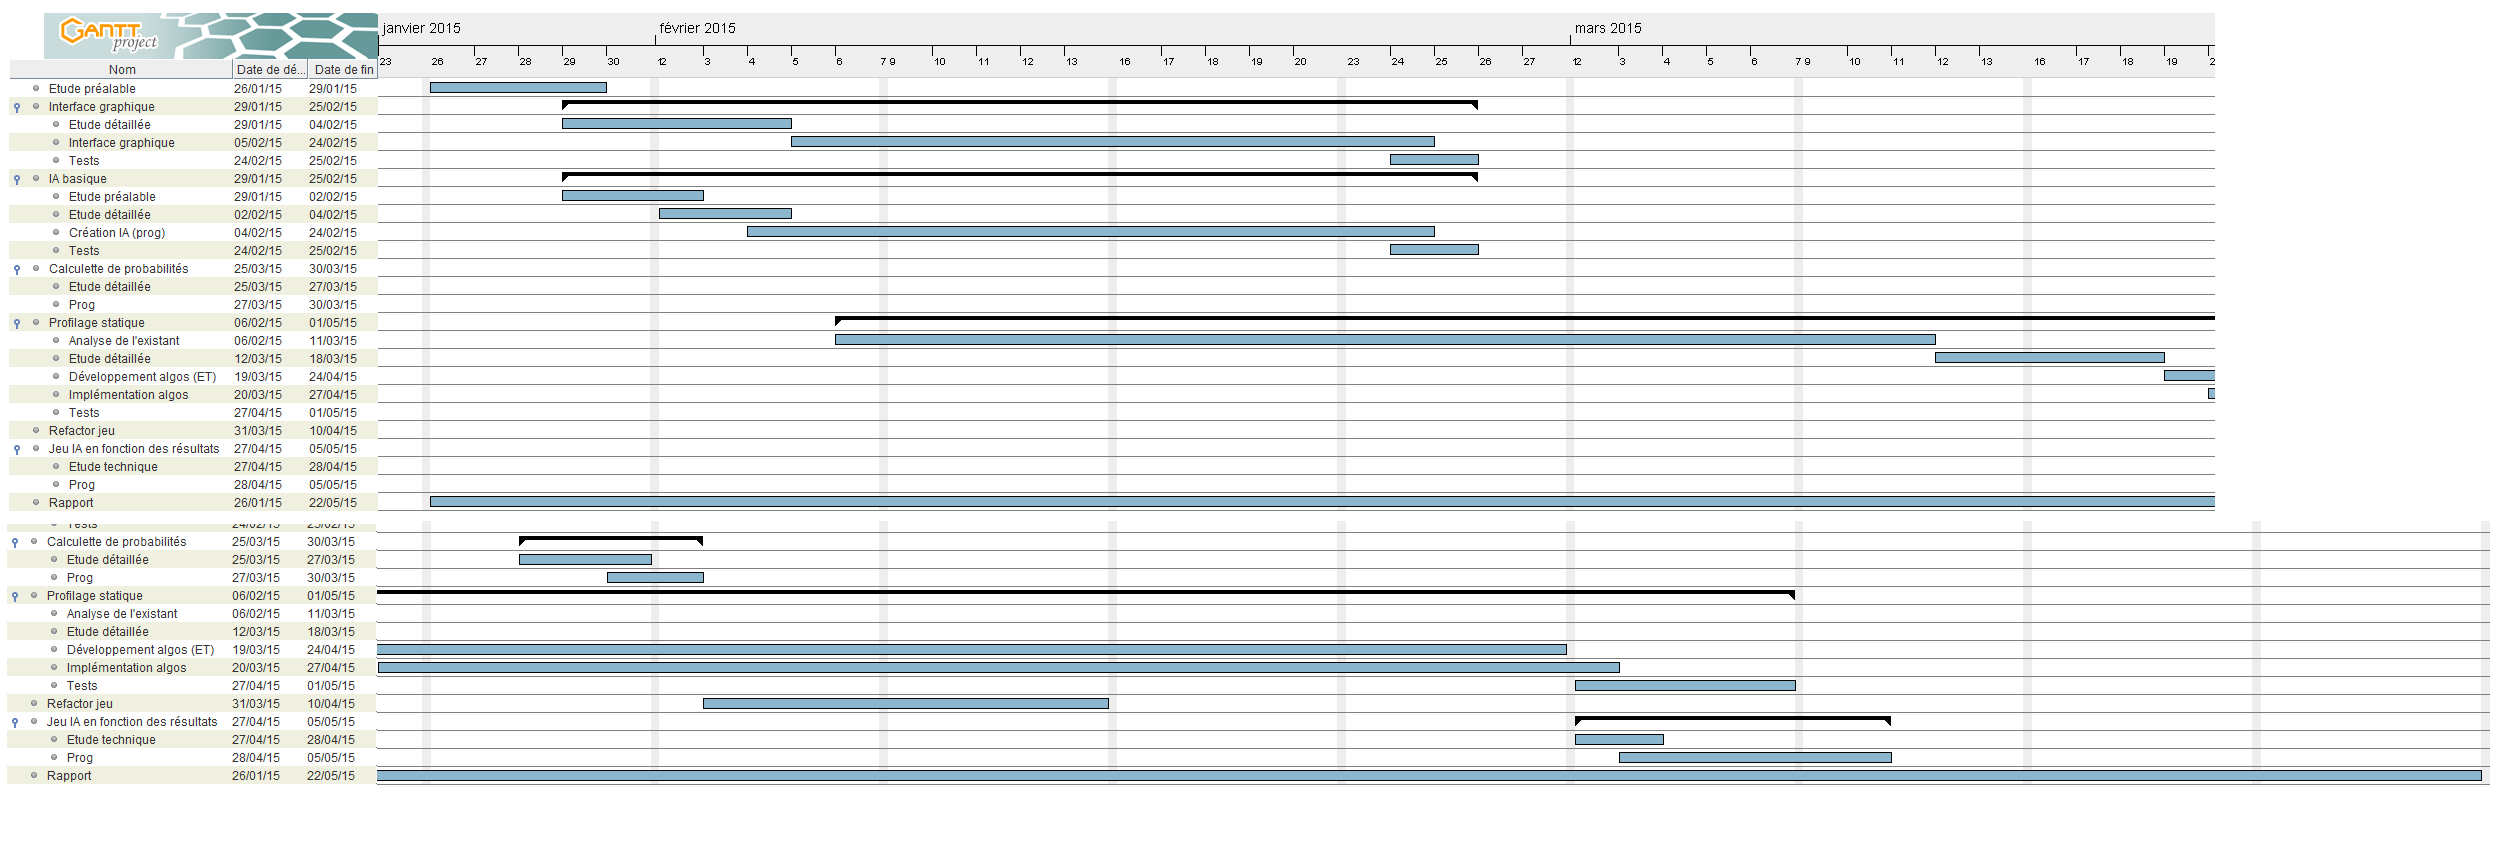
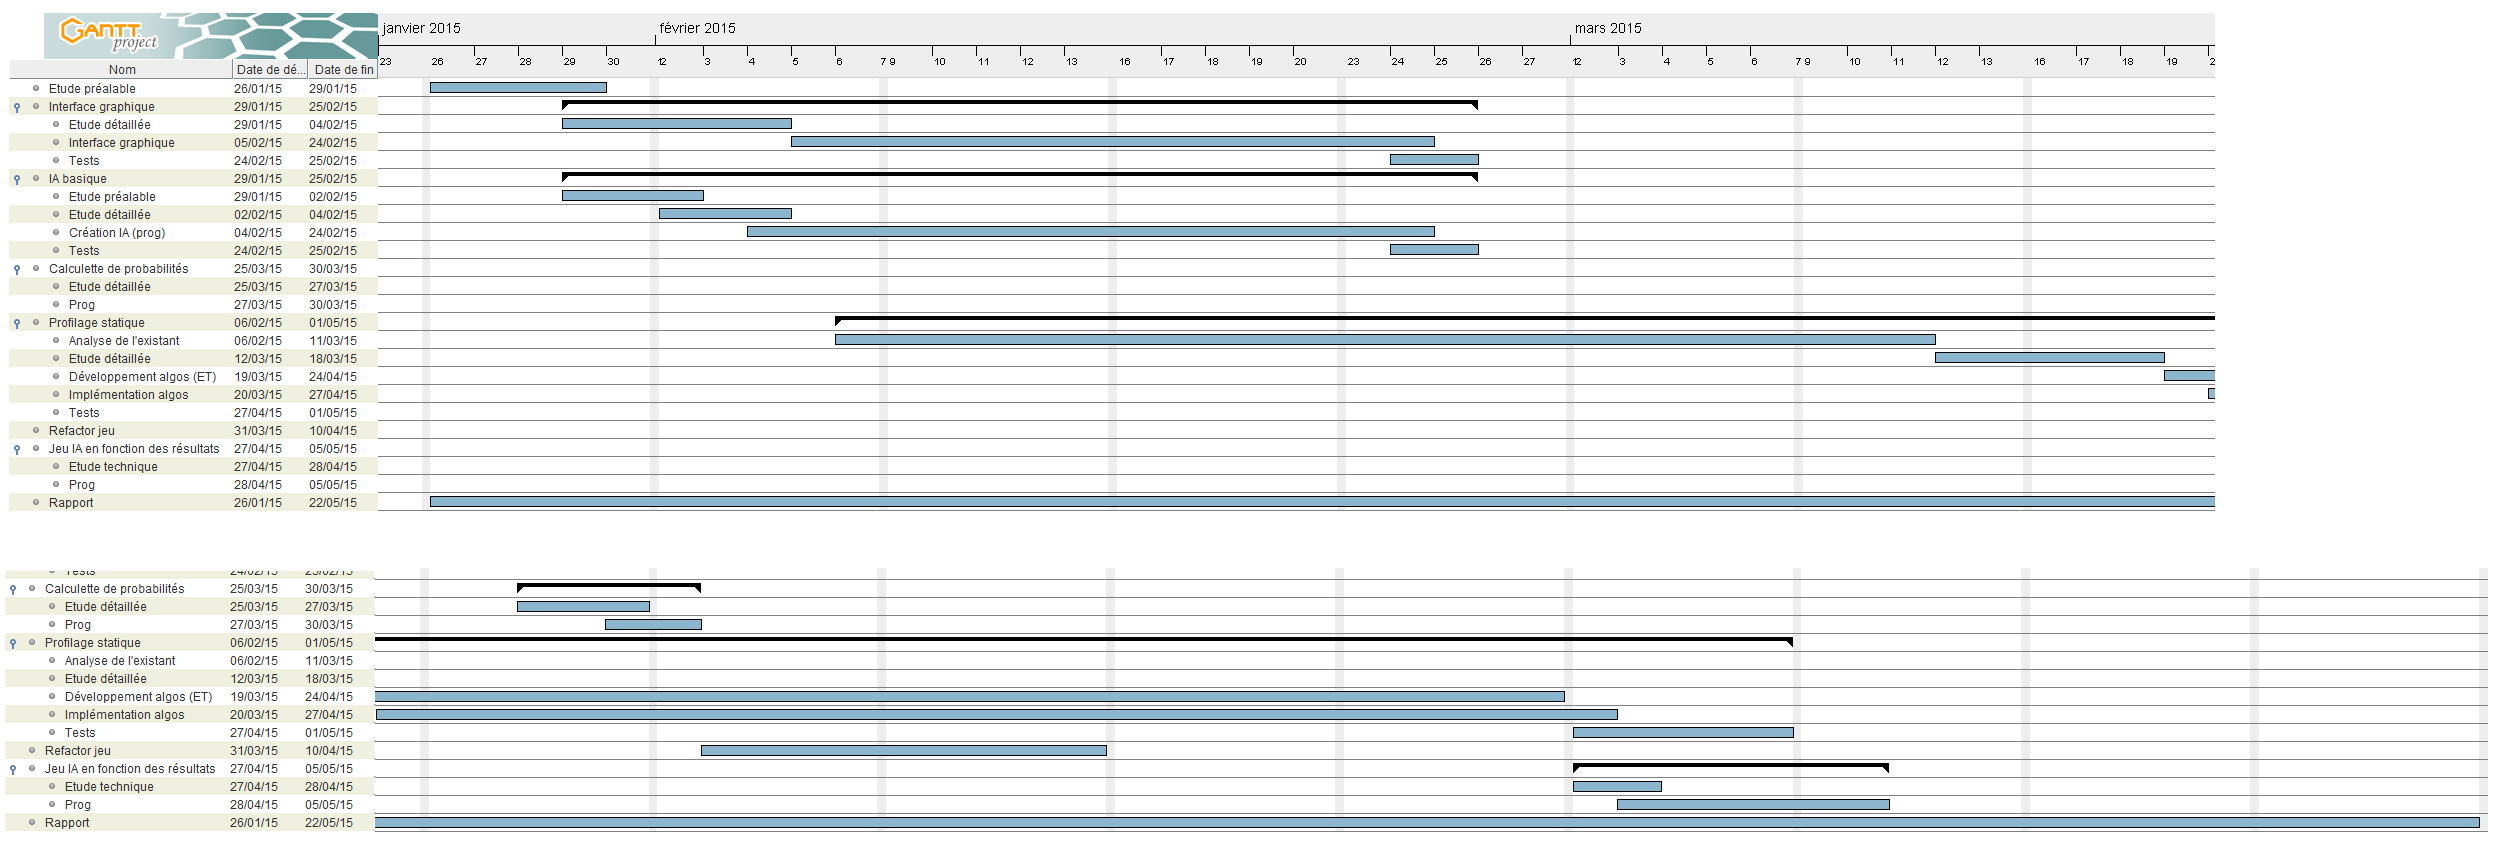
Mise à jour du rendu des diagrammes de gantt

Changed region(s): [[0.0, 0.6147, 0.9944, 0.9835]]

diff --git a/Application/src/Interface/ContenuFenetre.cpp b/Application/src/Interface/ContenuFenetre.cpp
@@ -1,0 +1,31 @@
+/*========================================================================
+Nom: ContenuFenetre.cpp       Auteur: Manuel Chataigner
+Maj: 21/05/2015            Creation: 21/05/2015
+Projet: Profilage par essais et erreurs au poker
+--------------------------------------------------------------------------
+Specification: Fichier contenant les définitions de la classe ContenuFenetre.
+=========================================================================*/
+
+#include "../../include/Interface/ContenuFenetre.h"
+#include "../../include/Interface/Logger.h"
+
+#include <QScrollBar>
+
+ContenuFenetre::ContenuFenetre(Jeu *j) : QWidget(), jeu(j)
+{
+    Logger::creerInstance(this);
+}
+
+ContenuFenetre::~ContenuFenetre()
+{
+    Logger::supprimerInstance();
+}
+
+void ContenuFenetre::ajoutLogs(QString contenu)
+{
+    logs.setText(logs.toPlainText() + contenu + "\n");
+
+    // Scroll automatique vers la fin
+    QScrollBar *sb=logs.verticalScrollBar();
+    sb->setValue(sb->maximum());
+}
